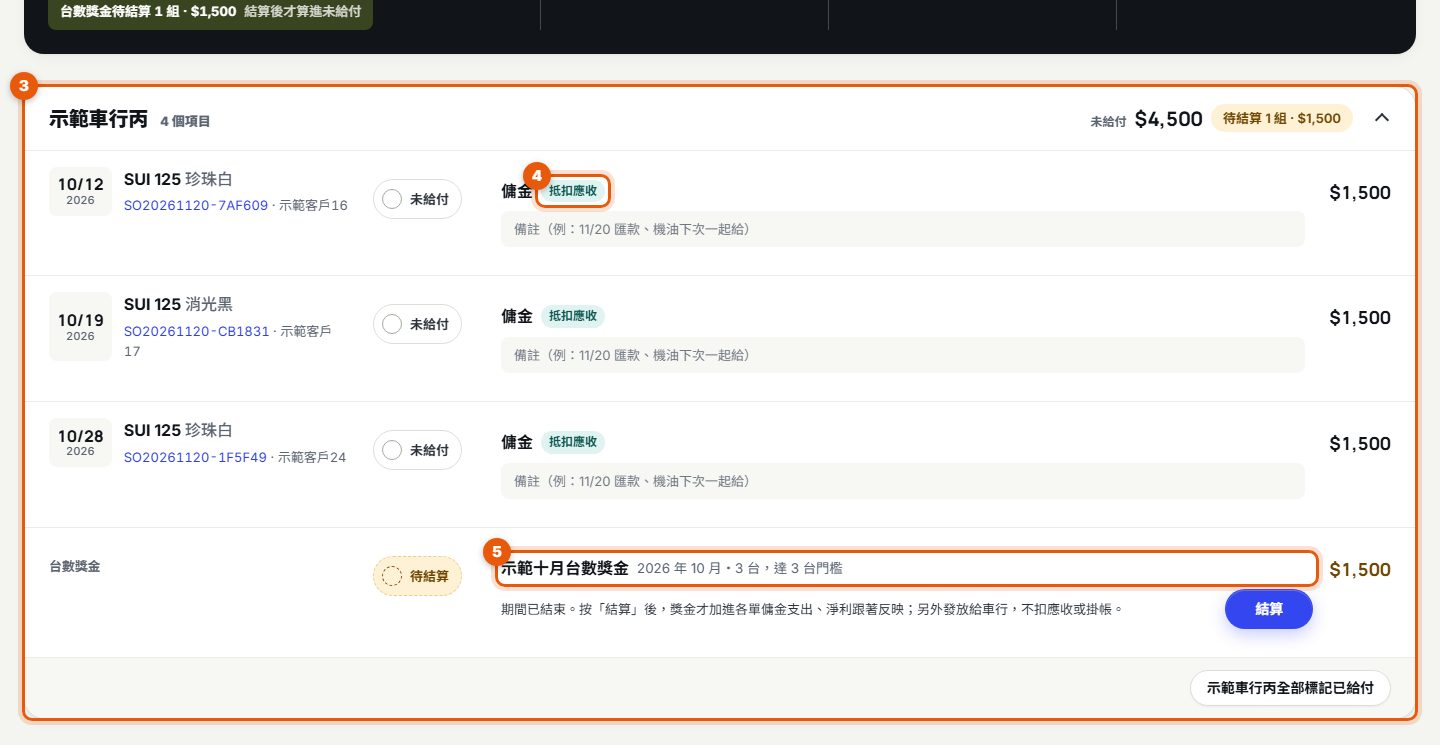
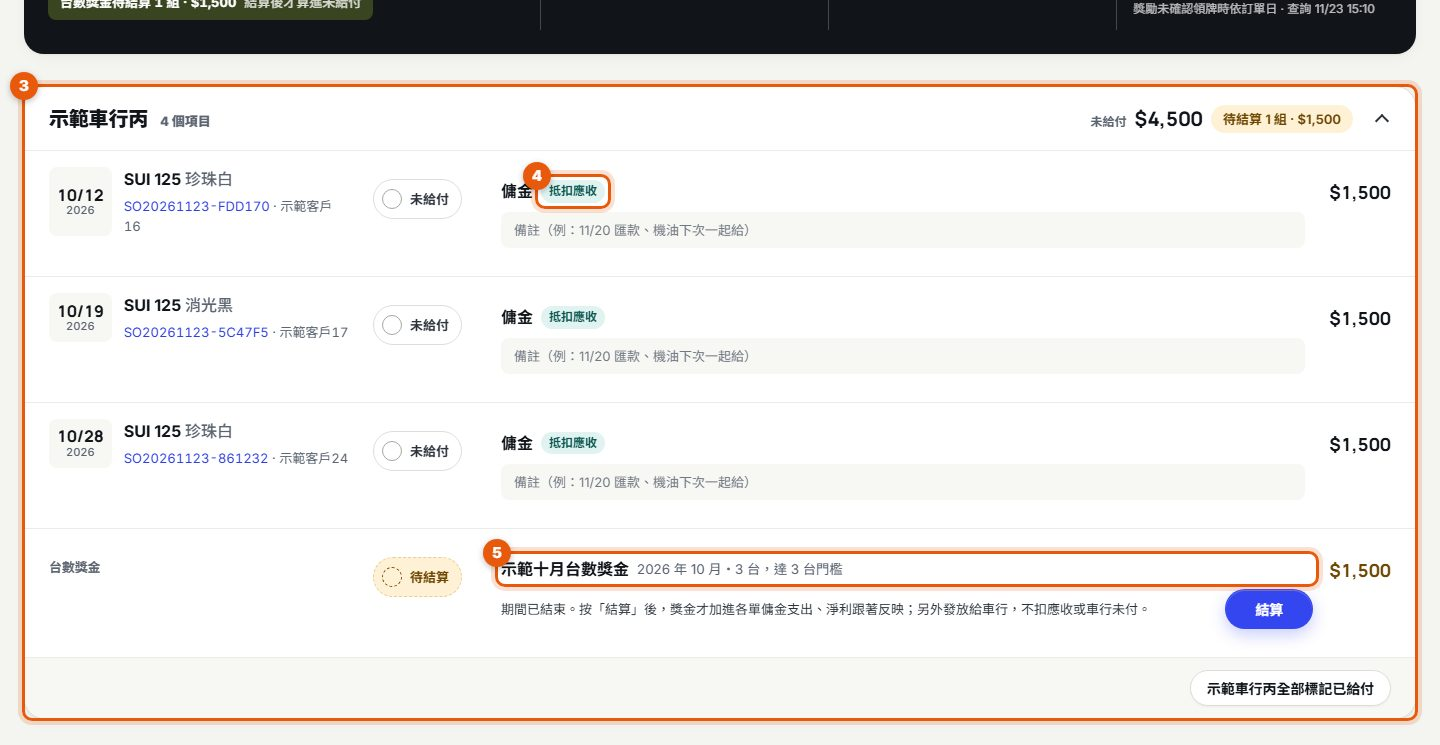
T-288：其他畫面的「掛帳」字樣全部改稱「車行未付」（使用者 11-23「全部一起改」）
- 名詞解釋（articles_basics）、給付說明與 FAQ（articles）、USER_MANUAL 重新產生
- 車行結算卡、給付頁說明、台數獎金結算提示與確認卡、台數獎金明細、交車後退車影響說明
- 交付紀錄 on_account_amount 顯示名稱改「交車時車行未付金額」：併入 0223 的 AlterField（只改 verbose_name，資料庫不動）
- BUSINESS_RULES 交車閘門條註明舊稱，其餘同義不重寫
- 說明截圖重拍 dealer-payouts 01–03、operations/03-attention；截圖腳本拿掉寫死「有 5 件需要處理」的那行
- 程式識別字、註解與歷史版本說明不改

diff --git a/templates/sales/dealer_volume_bonus_detail.html b/templates/sales/dealer_volume_bonus_detail.html
@@ -16,7 +16,7 @@
       <div class="total"><dt>{% if group.settlement %}本期獎金（已結算）{% else %}本期獎金（試算）{% endif %}</dt><dd>&#36;{% if group.settlement %}{{ group.settlement.total_amount|floatformat:0 }}{% else %}{{ group.total|floatformat:0 }}{% endif %}</dd></div>
       {% if group.settlement %}<div><dt>結算</dt><dd>{{ group.settlement.settled_at|date:'Y/m/d H:i' }} {{ group.settlement.settled_by }}</dd></div>{% endif %}
     </dl>
-    <div class="note-box">{% if group.settlement %}已結算：各單獎金固定、已加進傭金支出；之後改領牌日、刪單、退車或改規則都不會改金額。{% if group.changes %}結算後有變：{{ group.changes|join:'；' }}。需要時到給付頁取消結算後重新結算。{% endif %}{% elif not rule.active %}此規則已停用，不計算獎金。{% elif group.ended %}期間已結束；到車行傭金與獎勵〈給付〉頁籤按「結算」，獎金才加進各單的傭金支出。{% else %}統計期間尚未結束，金額會隨領牌台數變動；期間結束後到給付頁結算。{% endif %}台數獎金結算後另外發放給車行，不扣訂單應收或掛帳。{% if group.ended %} <a href="{% url 'dealer_payout_list' %}?dealer={{ group.dealer.pk }}">前往給付頁 →</a>{% endif %}</div>
+    <div class="note-box">{% if group.settlement %}已結算：各單獎金固定、已加進傭金支出；之後改領牌日、刪單、退車或改規則都不會改金額。{% if group.changes %}結算後有變：{{ group.changes|join:'；' }}。需要時到給付頁取消結算後重新結算。{% endif %}{% elif not rule.active %}此規則已停用，不計算獎金。{% elif group.ended %}期間已結束；到車行傭金與獎勵〈給付〉頁籤按「結算」，獎金才加進各單的傭金支出。{% else %}統計期間尚未結束，金額會隨領牌台數變動；期間結束後到給付頁結算。{% endif %}台數獎金結算後另外發放給車行，不扣訂單應收或車行未付。{% if group.ended %} <a href="{% url 'dealer_payout_list' %}?dealer={{ group.dealer.pk }}">前往給付頁 →</a>{% endif %}</div>
   </section>
   <section class="inventory-list-panel"><div class="inventory-list-summary"><strong>逐單明細 · 全部歸 {{ group.dealer }}</strong></div>
     <div class="inventory-table-wrap"><table class="inventory-table"><thead><tr><th>領牌日／訂單</th><th>原銷售車行／車型</th><th>本規則獎金</th><th>傭金支出</th></tr></thead><tbody>

diff --git a/templates/sales/reporting/_payout_item.html b/templates/sales/reporting/_payout_item.html
@@ -18,7 +18,7 @@
     {% if item.pending_settle %}
     {% with dialog_id='settle-'|add:item.source_key|slugify %}
     <div class="payout-settle">
-      <p>期間已結束。按「結算」後，獎金才加進各單傭金支出、淨利跟著反映；另外發放給車行，不扣應收或掛帳。</p>
+      <p>期間已結束。按「結算」後，獎金才加進各單傭金支出、淨利跟著反映；另外發放給車行，不扣應收或車行未付。</p>
       {% if can_operate %}
       <button class="button primary small" type="button" data-settle-open="{{ dialog_id }}" aria-haspopup="dialog">結算</button>
       <dialog class="payout-settle-dialog" id="{{ dialog_id }}" aria-labelledby="{{ dialog_id }}-title" aria-describedby="{{ dialog_id }}-lead" data-settle-dialog>
@@ -41,7 +41,7 @@
           <ul class="payout-settle-dialog__effects">
             <li>各單傭金支出加上台數獎金，淨利跟著反映。</li>
             <li>這一列改為「待發放」，付給車行後勾「已給付」。</li>
-            <li>不扣任何訂單應收或車行掛帳。</li>
+            <li>不扣任何訂單應收或車行未付。</li>
             <li>之後改領牌日、刪單或退車不會改金額，只標「結算後有變」；可取消結算後重新結算。</li>
           </ul>
           <div class="payout-settle-dialog__actions">

diff --git a/templates/sales/_dealer_settlement_card.html b/templates/sales/_dealer_settlement_card.html
@@ -17,5 +17,5 @@
     {% endfor %}
   </ol>
   {% if settlement.volume_bonus %}<p class="dealer-settlement__note">傭金不含台數獎金：已結算的台數獎金 ${{ settlement.volume_bonus|number_with_commas }} 另外發放給車行，不扣本單應收。</p>{% endif %}
-  <p class="dealer-settlement__note">{% if settlement.installment_fees %}分期總價固定、車款由分期公司撥款；牌險、選號、配件等由車行付的費用與傭金互抵（未扣訂金）。{% elif settlement.installment %}分期單車款由分期公司撥款，只結算配件與傭金。{% else %}原現金價不扣已核准優惠。{% endif %}正數向車行收、負數付給車行；只供對帳參考，不會自動登記收款或掛帳。</p>
+  <p class="dealer-settlement__note">{% if settlement.installment_fees %}分期總價固定、車款由分期公司撥款；牌險、選號、配件等由車行付的費用與傭金互抵（未扣訂金）。{% elif settlement.installment %}分期單車款由分期公司撥款，只結算配件與傭金。{% else %}原現金價不扣已核准優惠。{% endif %}正數向車行收、負數付給車行；只供對帳參考，不會自動登記收款或車行未付。</p>
 </section>

diff --git a/templates/sales/reporting/dealer_payouts.html b/templates/sales/reporting/dealer_payouts.html
@@ -10,7 +10,7 @@
   <div>
     <p class="eyebrow">車行傭金與獎勵</p>
     <h1>車行傭金／獎金給付</h1>
-    <p class="muted">領牌完成後列出要給車行的傭金與實物；{{ start_date|date:'Y/m/d' }} 前領牌的 Excel 匯入單列為「匯入前已結清」，其實沒付可個別改回未給付。台數獎金在統計期間結束後列為「待結算」，按「結算」才加進傭金支出與淨利，之後另外發放給車行。勾「已給付」只做追蹤，不影響車行結算、掛帳與淨利。</p>
+    <p class="muted">領牌完成後列出要給車行的傭金與實物；{{ start_date|date:'Y/m/d' }} 前領牌的 Excel 匯入單列為「匯入前已結清」，其實沒付可個別改回未給付。台數獎金在統計期間結束後列為「待結算」，按「結算」才加進傭金支出與淨利，之後另外發放給車行。勾「已給付」只做追蹤，不影響車行結算、車行未付與淨利。</p>
   </div>
   {% if can_export %}<div class="hero-actions"><a class="button ghost" href="{% url 'dealer_payout_export' %}?{{ request.GET.urlencode }}" data-no-busy>匯出 CSV</a></div>{% endif %}
 </header>

diff --git a/sales/help/articles.py b/sales/help/articles.py
@@ -268,9 +268,9 @@ ARTICLES = (
                  Figure("dealer-payouts/04-bonus-paid.jpg", "台數獎金標記已給付後的樣子", "⑦ 已給付，記下時間與登記人")),
             Step("需要留存或給會計：按右上 [[匯出 CSV]]。"),
         ),
-        done="「結算」才會把台數獎金加進傭金支出與淨利；勾「已給付」只是追蹤，不會寫入收支、不影響車行結算或淨利，點錯可以再點一次取消，歷程會保留。台數獎金一律另外發放，不扣訂單應收或車行掛帳。",
+        done="「結算」才會把台數獎金加進傭金支出與淨利；勾「已給付」只是追蹤，不會寫入收支、不影響車行結算或淨利，點錯可以再點一次取消，歷程會保留。台數獎金一律另外發放，不扣訂單應收或車行未付。",
         faqs=(
-            Faq("「抵扣應收」和「另付」差在哪？", "「抵扣應收」是這筆傭金直接從車行要付給本店的錢裡扣掉，不用另外匯；「另付」是要另外匯給車行。台數獎金一律另外發放給車行，不扣訂單應收或車行掛帳。"),
+            Faq("「抵扣應收」和「另付」差在哪？", "「抵扣應收」是這筆傭金直接從車行要付給本店的錢裡扣掉，不用另外匯；「另付」是要另外匯給車行。台數獎金一律另外發放給車行，不扣訂單應收或車行未付。"),
             Faq("這個月的台數獎金怎麼還沒出現？", "統計期間結束的隔天起，台數獎金會列為「待結算」。期間還沒結束時，勾「含預估台數獎金」可以先看灰色的預估，不能結算、不能勾選，也不算進合計。"),
             Faq("結算後發現台數不對？", "結算後金額固定，之後改領牌日、刪單或退車不會自動改，只會標「結算後有變」。要改就按 [[取消結算]] 再重新結算；如果已經勾了「已給付」，要先取消已給付。"),
             Faq("傭金是怎麼來的？", "車行單的傭金＝機種的車行基礎傭金＋該車行的品牌加減；確認領牌時就固定下來。台數獎金結算後，訂單的傭金支出會加上獎金，但給付頁的傭金列和訂單的「車行結算」仍只算基礎傭金，獎金另成一區，不會重複。"),

diff --git a/sales/help/articles_basics.py b/sales/help/articles_basics.py
@@ -133,7 +133,7 @@ BASICS = (
             Step("**客人的錢**：「分期外應收」＝分期以外客人自己要付的錢；「尾款」＝交車時還要收的錢；「已確認實收」＝已確認入帳的收款；「系統試算」＝系統先算的參考金額，可以再改。"),
             Step("**費用**：「牌險費」＝領牌稅金加強制險；「選號費」＝只有選號方式「指定號碼」才收；「牌險手續費」＝新單的代辦收入（舊 Excel 匯入的單叫「代辦費收入」）。"),
             Step("**車與領牌**：「優先配車」＝配車時排最前面的車（出廠超過一段時間會自動優先）；「預計」＝先填的領牌日或車牌，不列入報表；「確認完成並鎖定」＝領牌真的完成，鎖定成本、獎勵與傭金。"),
-            Step("**車行與收支**：「抵扣應收」＝傭金直接從車行要付的車款扣掉；「另付」＝傭金另外付給車行；「台數獎金」＝依車行一段期間的台數自動算的獎金；「車行掛帳」＝車行還欠的款；「預估車價收入」＝分期撥款入帳前的估計，入帳後改成「實際車價收入」。"),
+            Step("**車行與收支**：「抵扣應收」＝傭金直接從車行要付的車款扣掉；「另付」＝傭金另外付給車行；「台數獎金」＝依車行一段期間的台數自動算的獎金；「車行未付」＝車行還沒付清的款；「預估車價收入」＝分期撥款入帳前的估計，入帳後改成「實際車價收入」。"),
             Step("**其他**：「草稿」＝還沒正式建立、系統先存起來的訂單；「鎖定」＝重要步驟完成後避免被誤改；「交易類型」（一般新車、領牌車…）和「訂單來源」（本店、車行、平台）是兩件事，分開選。"),
         ),
         faqs=(

diff --git a/sales/migrations/0223_t288_remove_credit_limit_state.py b/sales/migrations/0223_t288_remove_credit_limit_state.py
@@ -2,8 +2,11 @@
 
 依「先擴充、後收斂」：這一版程式已不讀寫額度，但部署切換的幾秒內舊版仍在跑；欄位本來就可空，
 不用補 db_default，資料庫完全不動。下一版（0224）才真正刪除資料庫欄位。
+
+同版把交付紀錄 on_account_amount 的顯示名稱改成「交車時車行未付金額」（使用者 2026-11-23「全部一起改」），
+只是 verbose_name，資料庫不動。
 """
-from django.db import migrations
+from django.db import migrations, models
 
 
 class Migration(migrations.Migration):
@@ -15,5 +18,12 @@ class Migration(migrations.Migration):
             state_operations=[
                 migrations.RemoveField(model_name="salessource", name="credit_limit"),
             ],
+        ),
+        migrations.AlterField(
+            model_name="deliveryrecord",
+            name="on_account_amount",
+            field=models.DecimalField(
+                decimal_places=0, default=0, editable=False, max_digits=12, verbose_name="交車時車行未付金額",
+            ),
         ),
     ]

diff --git a/sales/services/order_return.py b/sales/services/order_return.py
@@ -160,7 +160,7 @@ def return_impacts(order, *, ledger, profile, vehicle):
         impacts.append(f"車行傭金 {_money(profile.dealer_commission_expense)} 元原本列在 {month} 的車行結算，退車後該月結算少這張；"
                        "如果已付給車行，請向車行追回（系統不另開追回單）。")
     if order.source_type == SalesOrder.SourceType.DEALER and order.cash_receivable_v2:
-        impacts.append("車行單的客戶應收尾款不再列入車行掛帳。")
+        impacts.append("車行單的客戶應收尾款不再列入車行未付。")
     allocations = order.dealer_volume_bonus_allocations.count()
     if allocations:
         impacts.append(f"已結算的台數獎金會自動扣掉本單 {allocations} 筆分配，並寫入結算調整紀錄。")

diff --git a/tools/help_screens/scenarios/topics.py b/tools/help_screens/scenarios/topics.py
@@ -84,7 +84,6 @@ def operations(page, base, out, assets, facts):
     page.goto(f"{base}/operations/", wait_until="networkidle")
     page.wait_for_timeout(800)
     periods = mark(page, "a:has-text('上月'), button:has-text('上月')", "periods", "nav, div[class]")
-    headline = mark(page, "text=有 5 件需要處理", "headline", "p") if page.locator("text=件需要處理").count() else None
     headline = mark(page, "text=件需要處理", "headline", "p")
     tiles = leaf_text(page, "領牌台數", "tile-first")
     page.evaluate("()=>{let x=document.querySelector('[data-help-shot=tile-first]'); while(x && !/車款成交額/.test(x.innerText)) x=x.parentElement; x.setAttribute('data-help-shot','tiles')}")

diff --git a/sales/models.py b/sales/models.py
@@ -5028,7 +5028,7 @@ class DeliveryRecord(TimeStampedModel):
     accessories_checked = models.BooleanField("已核對配件與贈品", default=False)
     payment_checked = models.BooleanField("已核對收款狀態", default=False)
     on_account_amount = models.DecimalField(
-        "交車時掛帳金額", max_digits=12, decimal_places=0, default=0, editable=False,
+        "交車時車行未付金額", max_digits=12, decimal_places=0, default=0, editable=False,
     )
     damage_found = models.BooleanField("發現刮傷或損壞", default=False)
     damage_note = models.TextField("刮傷／損壞說明", blank=True)

diff --git a/docs/context/BUSINESS_RULES.md b/docs/context/BUSINESS_RULES.md
@@ -18,7 +18,7 @@
 - 上傳一律選填（2026-10-22 T-95）：補助只看資料（舊車車牌、補助項目、不同人時舊車主姓名／證號）是否齊全，文件顯示「已上傳 x／y（選填）」；訂購單、個資同意書的簽署步驟為「選用」；附件分頁都不算缺項（行照、登記書 2026-11-11 T-145 起也選填）；車行先交車、尚未領牌顯示「已交車／待領牌」（狀態值 `delivered_docs_pending` 不變）。
 - 補助步驟「已完成」（2026-11-20 T-261，`order_steps._subsidy_step`）：有補助項目時，全部項目狀態為「已申請」才算完成，否則待處理並顯示「X／Y 項已申請」（汰舊單基本資料未齊時加「補助資料待補・」）；只看申請狀態，不看附件、不看撥款。沒有補助項目的訂單維持原本顯示。只影響步驟狀態與摘要，不是交車、結案或報表的條件。
 - 建立訂單後調整折扣（`order_discount_request`）：具財務編輯與折扣核定權限者送出即直接核定並重算應收（與金額收支頁、下單優惠一致，2026-10-14）；無權限者才建立待確認申請。
-- 交車閘門（`SalesOrder.delivery_blockers`）：已配車、一般單已領牌、折扣非待確認、電動車「交車前確認」已勾選車控與電池合約（記錄確認人與時間；贈品與履約 2026-10-21 起不再是條件、畫面拿掉、欄位與既有值保留；2026-10-14 起可在交車表單一併勾選，送出時補記，畫面按鈕用 `include_prep=False` 不先擋）；本店／平台單尾款收清；車行單不因未收清擋交車，未收清記為車行未付、只追蹤（2026-11-23 T-288 移除車行額度與 `credit_blocker`，使用者：「我們根本沒這種習慣跟需求」；交付紀錄照記 `on_account_amount`；未付金額：系統建立的車行現金單＝車行結算「向車行收」（原現金價－傭金＋牌險＋選號＋配件，`customer_receivable.dealer_cash_credit`；2026-11-06 T-120 p16 選 A，取代 10-17「不扣傭金」）；系統建立的分期車行單＝分期外應收（牌險、選號、配件等由車行付的費用）－傭金（不含台數獎金，T-203），不低於 0，傭金多出的差額付給車行（`customer_receivable.dealer_account_due`；2026-11-12 T-154 選 B，使用者：「就算是選號費，也是要算在跟車行收款的費用裡」，取代 11-06「分期車行單不扣傭金」中掛帳的部分）；分期總價本身仍固定、不扣傭金，分期公司撥款不變（使用者 2026-11-06：「車行的如果是分期，那分期總價就是固定的，不會去扣傭金這件事」）；Excel 匯入單照舊）。分期單不需登記核貸核准（2026-10-14 移除分期核貸卡片與閘門，欄位與既有紀錄保留）。
+- 交車閘門（`SalesOrder.delivery_blockers`）：已配車、一般單已領牌、折扣非待確認、電動車「交車前確認」已勾選車控與電池合約（記錄確認人與時間；贈品與履約 2026-10-21 起不再是條件、畫面拿掉、欄位與既有值保留；2026-10-14 起可在交車表單一併勾選，送出時補記，畫面按鈕用 `include_prep=False` 不先擋）；本店／平台單尾款收清；車行單不因未收清擋交車，未收清記為車行未付（舊稱「車行掛帳」，2026-11-23 起所有畫面、說明與交付紀錄欄名都改稱車行未付；本文件其餘「掛帳」同義）、只追蹤（2026-11-23 T-288 移除車行額度與 `credit_blocker`，使用者：「我們根本沒這種習慣跟需求」；交付紀錄照記 `on_account_amount`；未付金額：系統建立的車行現金單＝車行結算「向車行收」（原現金價－傭金＋牌險＋選號＋配件，`customer_receivable.dealer_cash_credit`；2026-11-06 T-120 p16 選 A，取代 10-17「不扣傭金」）；系統建立的分期車行單＝分期外應收（牌險、選號、配件等由車行付的費用）－傭金（不含台數獎金，T-203），不低於 0，傭金多出的差額付給車行（`customer_receivable.dealer_account_due`；2026-11-12 T-154 選 B，使用者：「就算是選號費，也是要算在跟車行收款的費用裡」，取代 11-06「分期車行單不扣傭金」中掛帳的部分）；分期總價本身仍固定、不扣傭金，分期公司撥款不變（使用者 2026-11-06：「車行的如果是分期，那分期總價就是固定的，不會去扣傭金這件事」）；Excel 匯入單照舊）。分期單不需登記核貸核准（2026-10-14 移除分期核貸卡片與閘門，欄位與既有紀錄保留）。
 - 交車收尾款（2026-10-22 T-73～T-75）：應收＝`payment_summary` 的 `delivery_due`，畫面列計算式（`balance_breakdown`，同源）；應收大於 0 時實收必填且不得少於應收（`DeliveryPaymentForm(due=)` 與交車頁前端同規則），應收為 0 不卡（含收款列存檔後才變 0：實收即時改為免填、不標必填；填 0 視同未填，不記 0 元收款，2026-11-13 T-156）。交車時收尾款看交車權限（`delivery_complete`，訂單作業 work），不需內部財務權限；尾款擋交車時只寫這個人看得到的入口，沒有交車權限就寫請有交車權限的人員收款（2026-11-06 UAT U-03 方案 A，`order_workspace.can_collect_balance／balance_hint`）。交付車況、交付核對四項與交付照片不再要求，`DeliveryRecord` 欄位與舊資料保留。應收扣掉所有已確認的客戶收款（訂金、分批匯款等，對帳單逐項列「已收訂金」「其他已收款」）；收款列自動儲存後交車的計算式與應收即時換新（`order_workspace.delivery_balance_payload`），不收尾款時（應收 0、已交車、沒有交車權限）也列出應收，含 0 元；收支頁尾款計算下方列「客戶應收合計－已確認收款＝還要收」，同一份 `payment_summary`（2026-11-05 T-120 p10、p15）。
 - 交車後退車（2026-10-19 方案 A，admin only，`services/order_return.py`）：已交車／已完成的單轉例外結案、顯示「已退車」（`is_returned_after_delivery`＝例外結案且有交車紀錄），報表等排除沿用例外結案。應退＝客戶已確認淨實收－沒收，寫負向退款列；Excel 匯入單（帳上多半沒有付款紀錄）可改手填應退（使用者 2026-10-19）：備註選填、不另計沒收、須為正整數，上限＝Excel 收款價、Excel 現金＋刷卡、帳本淨實收三者取大，同樣寫負向退款列並在異動與事件記下手填金額、帳本計算值與備註；系統建立的單只能依帳本；分期已撥款可退，但須登記分期公司沖回（負向分期列不超過帳本淨撥款），實際撥款歸零並鎖定、原值記紀錄；車以已領牌車回庫（保留車牌、必填再售價），匯入單依識別號碼找唯一已售出／已交車的車，找不到只記錄；有補助須勾「已撤回或另行處理」；已結算台數獎金比照刪單自動扣除（舊「確認結算」分配；T-203 的結算不自動收回，只標「結算後有變」）；撤回確認結案；簽署檔不動不重簽；須輸入識別號碼末 4 碼。測試 `test_order_return.py`。
 - 領牌後棄單走「例外結案」：沒收／退款同取消結算；車輛以已領牌車（保留車牌、必填再售價）釋回，只能配給「領牌車」交易；不列有效售出、台數與佣金。分期已撥款不能退車。

diff --git a/docs/USER_MANUAL.md b/docs/USER_MANUAL.md
@@ -287,7 +287,7 @@ _隨時查・6 個步驟_
 
 4. **車與領牌**：「優先配車」＝配車時排最前面的車（出廠超過一段時間會自動優先）；「預計」＝先填的領牌日或車牌，不列入報表；「確認完成並鎖定」＝領牌真的完成，鎖定成本、獎勵與傭金。
 
-5. **車行與收支**：「抵扣應收」＝傭金直接從車行要付的車款扣掉；「另付」＝傭金另外付給車行；「台數獎金」＝依車行一段期間的台數自動算的獎金；「車行掛帳」＝車行還欠的款；「預估車價收入」＝分期撥款入帳前的估計，入帳後改成「實際車價收入」。
+5. **車行與收支**：「抵扣應收」＝傭金直接從車行要付的車款扣掉；「另付」＝傭金另外付給車行；「台數獎金」＝依車行一段期間的台數自動算的獎金；「車行未付」＝車行還沒付清的款；「預估車價收入」＝分期撥款入帳前的估計，入帳後改成「實際車價收入」。
 
 6. **其他**：「草稿」＝還沒正式建立、系統先存起來的訂單；「鎖定」＝重要步驟完成後避免被誤改；「交易類型」（一般新車、領牌車…）和「訂單來源」（本店、車行、平台）是兩件事，分開選。
 
@@ -982,13 +982,13 @@ _約 5 分鐘・5 個步驟_
 
 5. 需要留存或給會計：按右上「匯出 CSV」。
 
-> 完成：「結算」才會把台數獎金加進傭金支出與淨利；勾「已給付」只是追蹤，不會寫入收支、不影響車行結算或淨利，點錯可以再點一次取消，歷程會保留。台數獎金一律另外發放，不扣訂單應收或車行掛帳。
+> 完成：「結算」才會把台數獎金加進傭金支出與淨利；勾「已給付」只是追蹤，不會寫入收支、不影響車行結算或淨利，點錯可以再點一次取消，歷程會保留。台數獎金一律另外發放，不扣訂單應收或車行未付。
 
 ### 常見問題
 
 **「抵扣應收」和「另付」差在哪？**
 
-「抵扣應收」是這筆傭金直接從車行要付給本店的錢裡扣掉，不用另外匯；「另付」是要另外匯給車行。台數獎金一律另外發放給車行，不扣訂單應收或車行掛帳。
+「抵扣應收」是這筆傭金直接從車行要付給本店的錢裡扣掉，不用另外匯；「另付」是要另外匯給車行。台數獎金一律另外發放給車行，不扣訂單應收或車行未付。
 
 **這個月的台數獎金怎麼還沒出現？**
 
